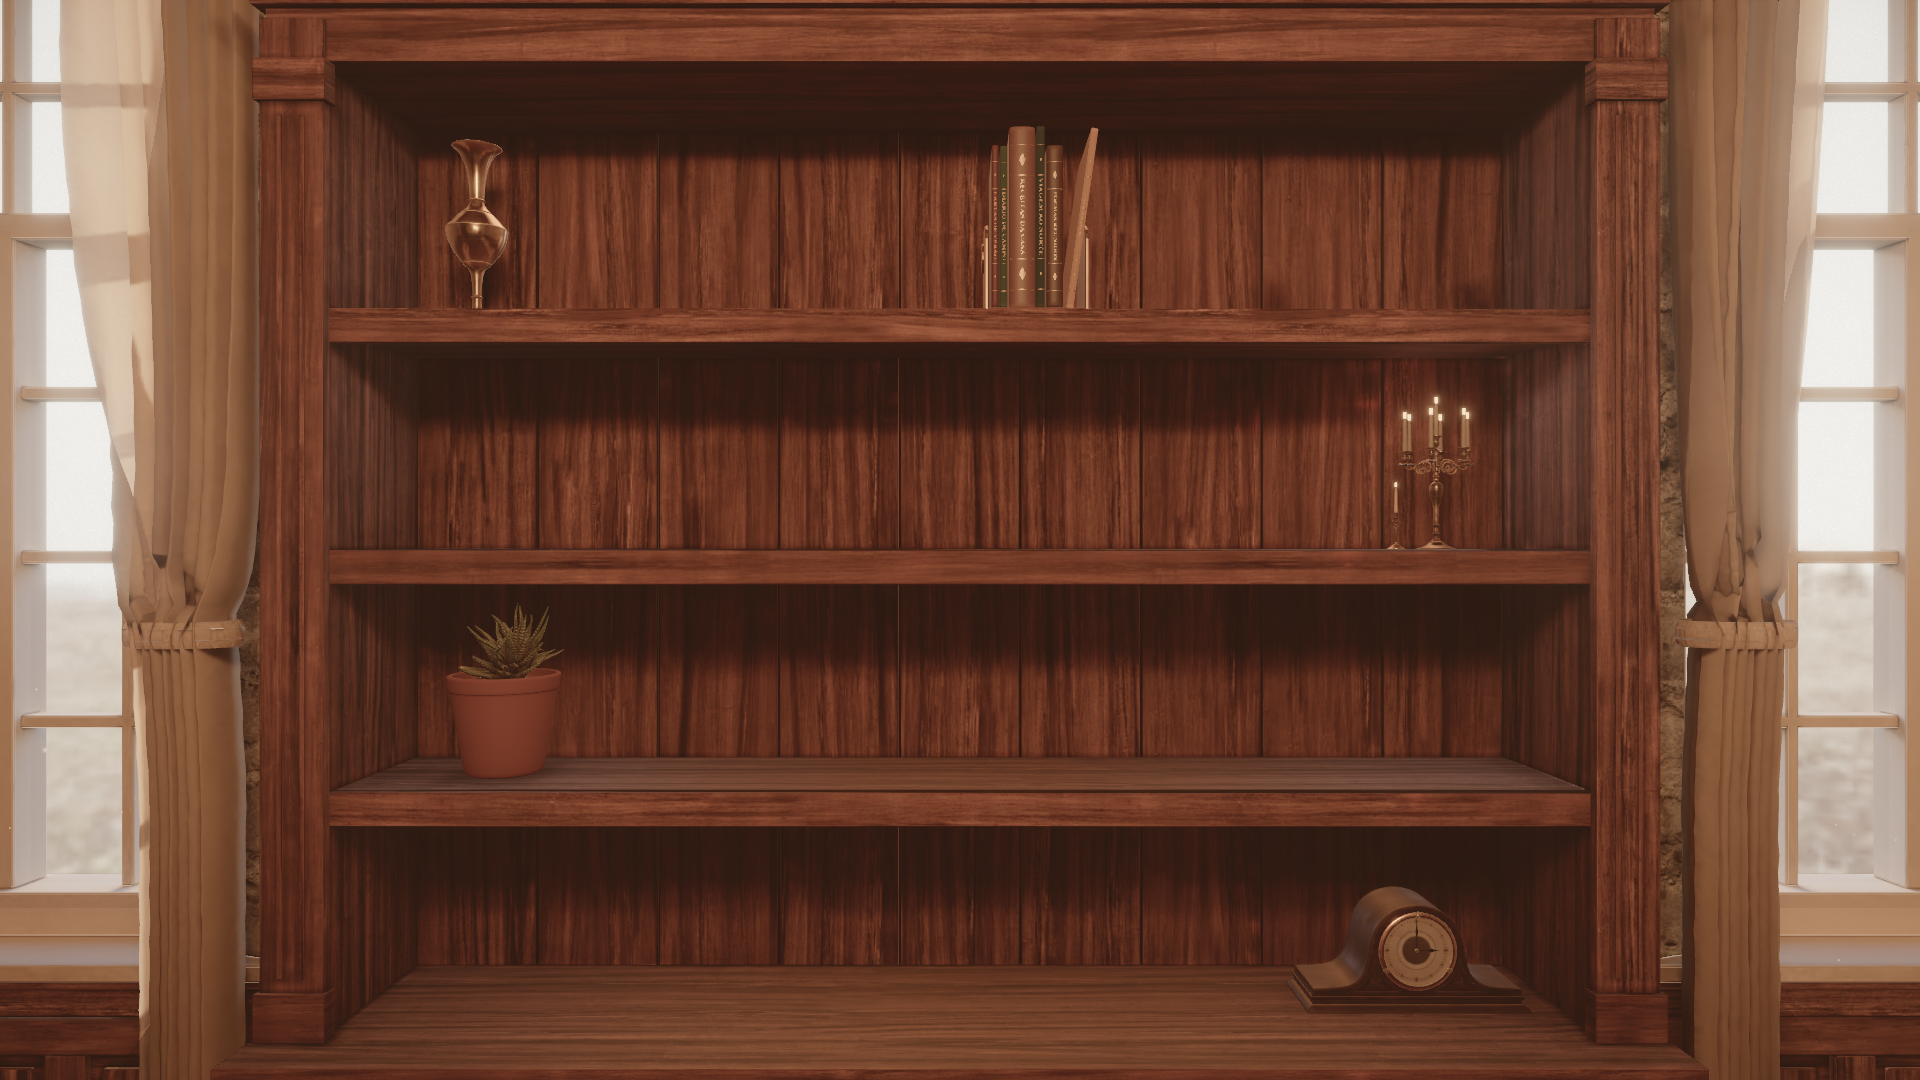
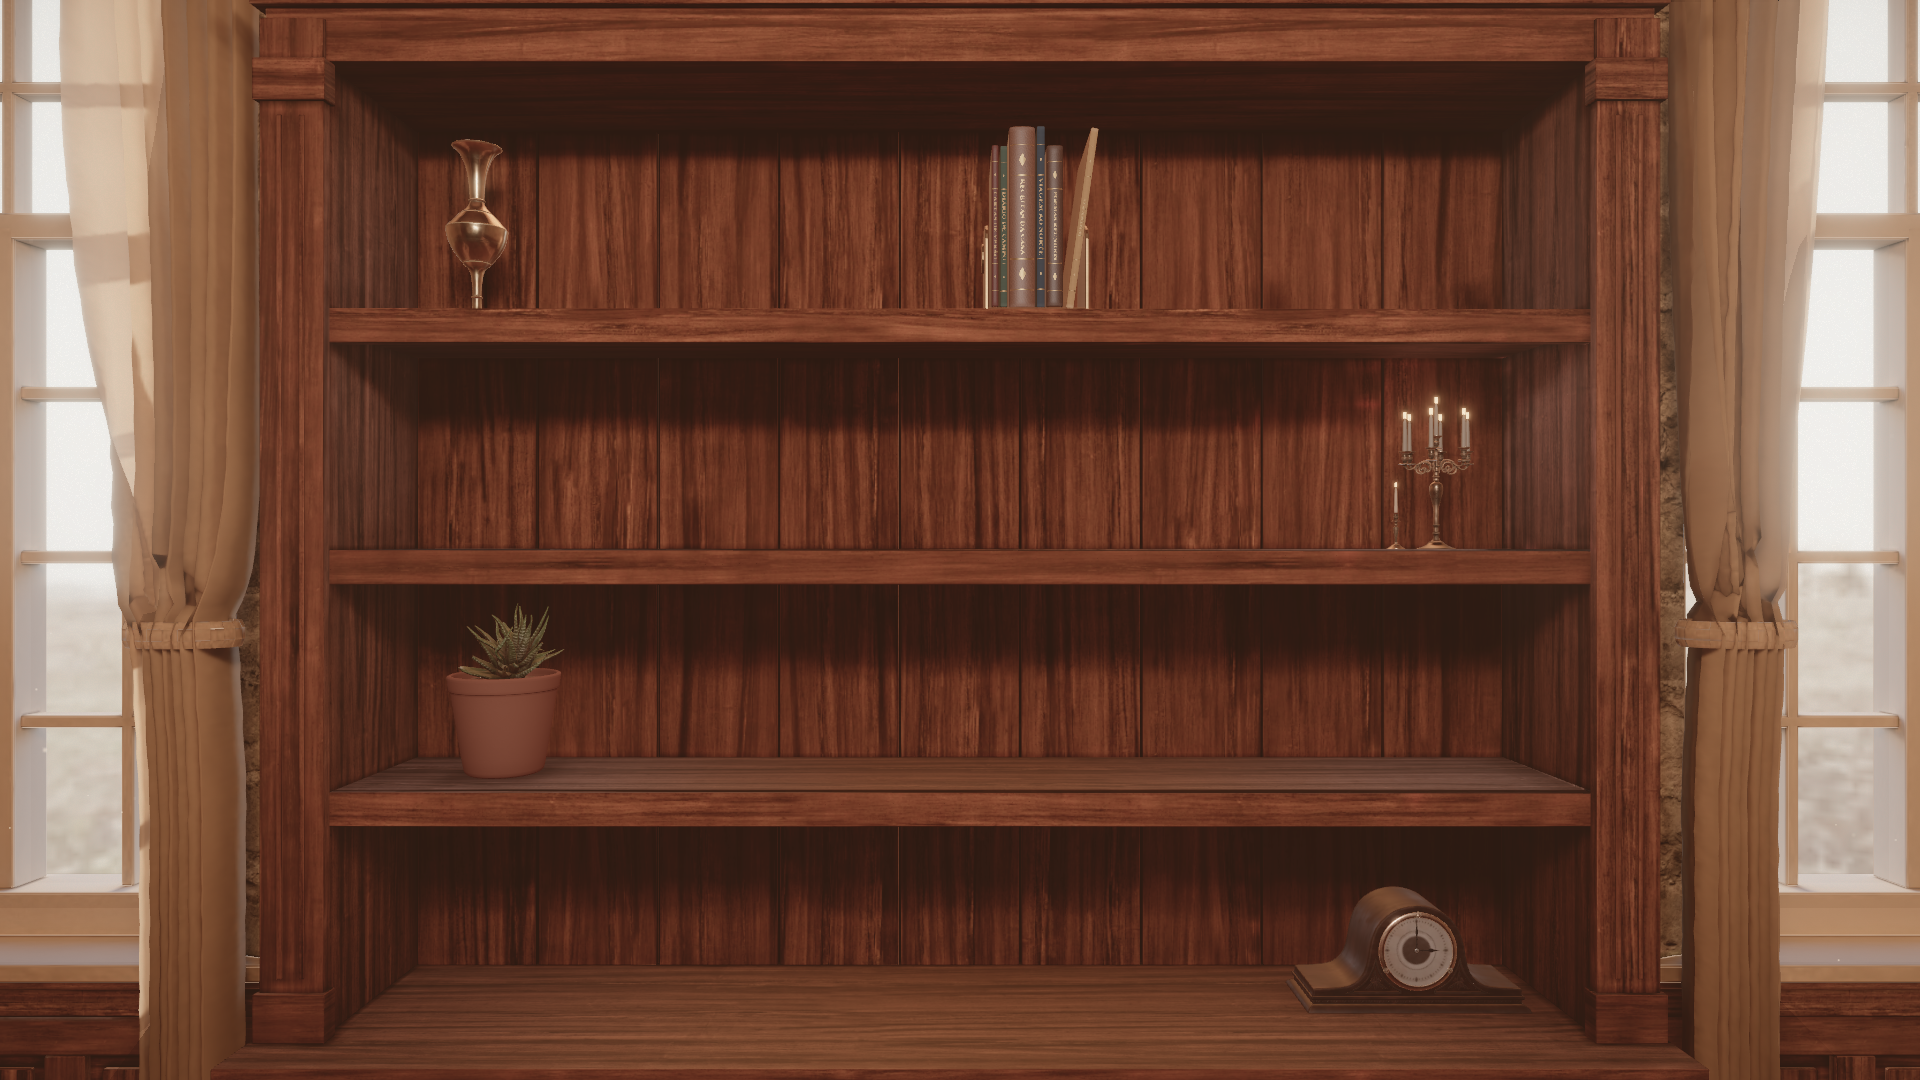
fase 6: cor fiel (luz dos livros menos saturada, prévia medida), prévia com lombada, sumário sem corte, botão × da foto

Changed region(s): [[0.5, 0.1222, 0.5625, 0.3056], [0.7188, 0.825, 0.7812, 0.9167], [0.7188, 0.3972, 0.75, 0.4278]]

diff --git a/src/ui/BookForm.tsx b/src/ui/BookForm.tsx
@@ -12,10 +12,15 @@ import { isPdf, useCreator } from './creator'
 import './ui.css'
 
 const COLORS = Object.keys(SPINE_COLORS) as SpineColor[]
-const PREVIEW_YAW = (32 * Math.PI) / 180
+const PREVIEW_YAW = (40 * Math.PI) / 180
 const PREVIEW_PITCH = (8 * Math.PI) / 180
-/** the room's sun (config/room.json, 3200 K): the colour picked here is the colour on the shelf */
-const WARM = '#FFBB78'
+/**
+ * Preview light: the room shows its books through a white-balance grade (scene/Grade.tsx) that this small
+ * canvas does not have, so it gets a near-neutral key in front of the cover and less of the (warm) room env
+ * map. Matched by measurement: petrol-blue cloth reads (73, 81, 89) here and (72, 73, 77) in the hand.
+ */
+const PREVIEW_KEY = '#FFF1E2'
+const PREVIEW_ENV = 0.6
 /** thickness of the preview before the PDF is composed */
 const DRAFT_PAGES = 120
 
@@ -180,10 +185,10 @@ function BookFormOpen() {
     <div className="ui-overlay" onDragOver={(e) => e.preventDefault()} onDrop={(e) => (e.preventDefault(), pickPdf([...e.dataTransfer.files].find(isPdf)))}>
       <form className="ui-card bf" role="dialog" aria-modal="true" aria-labelledby={`${ids}-h`} onSubmit={submit}>
         <div className="bf-preview" aria-hidden="true">
-          <Canvas dpr={[1, 2]} camera={{ fov: 30, position: [0.62, 0.05, 0] }} gl={{ antialias: true, toneMapping: AgXToneMapping, toneMappingExposure: 1.1 }}>
+          <Canvas dpr={[1, 2]} camera={{ fov: 22, position: [0.8, 0.1, 0] }} gl={{ antialias: true, toneMapping: AgXToneMapping, toneMappingExposure: 1.1 }}>
             <Suspense fallback={null}>
-              <RoomEnvironment background={false} intensity={1} />
-              <directionalLight position={[0.8, 1, 0.6]} intensity={2.2} color={WARM} />
+              <RoomEnvironment background={false} intensity={PREVIEW_ENV} />
+              <directionalLight position={[1, 0.9, -0.7]} intensity={3} color={PREVIEW_KEY} />
               <PreviewBook book={preview} />
             </Suspense>
           </Canvas>
@@ -196,17 +201,12 @@ function BookFormOpen() {
             {mode === 'edit' ? (editing?.title ?? d.title) : 'Um livro para a estante'}
           </h2>
 
-          <label className="bf-drop" data-filled={d.pdf ? '' : undefined}>
+          <span className="ui-label" id={`${ids}-pdf`}>
+            PDF do conteúdo <Req />
+          </span>
+          <label className="bf-drop" data-filled={d.pdf ? '' : undefined} aria-labelledby={`${ids}-pdf`}>
             <input type="file" accept="application/pdf,.pdf" onChange={(e) => pickPdf(e.target.files?.[0])} />
-            <span className="bf-drop-main">
-              {d.pdf ? (
-                d.pdfName
-              ) : (
-                <>
-                  Escolha ou arraste o PDF do conteúdo <Req />
-                </>
-              )}
-            </span>
+            <span className="bf-drop-main">{d.pdf ? d.pdfName : 'Escolha ou arraste o arquivo'}</span>
             <span className="bf-drop-sub">{d.pdf ? 'trocar arquivo' : 'o texto e as imagens viram as páginas do livro'}</span>
           </label>
           {loading && (
@@ -284,7 +284,7 @@ function BookFormOpen() {
             </fieldset>
           </div>
 
-          <div className="ui-field">
+          <div className="ui-field bf-photo-field">
             <span>Foto da capa</span>
             <label className="bf-drop bf-drop-photo" data-filled={d.coverPhoto ? '' : undefined}>
               <input type="file" accept="image/*" onChange={(e) => e.target.files?.[0] && set({ coverPhoto: e.target.files[0] })} />
@@ -295,8 +295,8 @@ function BookFormOpen() {
               </span>
             </label>
             {d.coverPhoto && (
-              <button type="button" className="ui-link" onClick={() => set({ coverPhoto: null })}>
-                tirar a foto
+              <button type="button" className="bf-clear" aria-label="Tirar a foto" title="Tirar a foto" onClick={() => set({ coverPhoto: null })}>
+                ×
               </button>
             )}
           </div>
@@ -336,14 +336,16 @@ function PreviewBook({ book }: { book: Parameters<typeof Book>[0]['book'] }) {
   const g = useRef<Group>(null)
   const d = bookDimensions(book.pageCount, book.trim)
   useFrame(({ clock, camera, size }) => {
-    // three-quarter view: spine and cover together, swaying a little
-    if (g.current) g.current.rotation.y = -PREVIEW_YAW + Math.sin(clock.elapsedTime * 0.45) * 0.1
-    // the book fills ~65% of the column's height, or its width when the column is short and wide (phones)
+    // three-quarter view with the spine toward the camera (a thin book's spine only shows from that side)
+    if (g.current) g.current.rotation.y = PREVIEW_YAW + Math.sin(clock.elapsedTime * 0.45) * 0.08
+    // the book fills ~65% of the column's height, or ~90% of its width when the column is short and wide
     const cam = camera as PerspectiveCamera
     const half = Math.tan((cam.fov * Math.PI) / 360)
-    const dist = Math.max(d.coverHeight / (2 * half * 0.65), (d.coverWidth * 0.62) / (half * (size.width / size.height)))
+    const projected = d.coverWidth * Math.cos(PREVIEW_YAW) + d.totalThickness * Math.sin(PREVIEW_YAW)
+    const dist = Math.max(d.coverHeight / (2 * half * 0.65), projected / (2 * half * (size.width / size.height) * 0.9))
     cam.position.set(dist * Math.cos(PREVIEW_PITCH), dist * Math.sin(PREVIEW_PITCH), 0)
-    cam.lookAt(0, 0, 0)
+    // aim a little low: the book sits above the middle, the page count just under it
+    cam.lookAt(0, -dist * half * 0.12, 0)
   })
   return (
     <group ref={g}>

diff --git a/src/scene/DynamicLights.tsx b/src/scene/DynamicLights.tsx
@@ -1,8 +1,9 @@
 import { useThree } from '@react-three/fiber'
 import { useEffect, useLayoutEffect, useRef } from 'react'
-import { Color, type DirectionalLight } from 'three'
+import type { DirectionalLight } from 'three'
 import { room, sunTravelDirection } from '../config/room'
 import { useQuality } from '../state/quality'
+import { CHANDELIER_TO_WHITE, objectLight, SUN_TO_WHITE } from './lightColor'
 import { setShadowInvalidator } from './shadows'
 
 /**
@@ -67,7 +68,7 @@ export function DynamicLights() {
       <directionalLight
         ref={sun}
         position={sunPos}
-        color={new Color(room.lighting.sun.colorHex)}
+        color={objectLight(room.lighting.sun.colorHex, SUN_TO_WHITE)}
         intensity={14}
         castShadow={quality === 'high'}
         shadow-mapSize={[1024, 1024]}
@@ -76,7 +77,7 @@ export function DynamicLights() {
       />
       <pointLight
         position={[ch.anchor[0], ch.bottomY + 0.25, ch.anchor[2]]}
-        color={new Color(room.lighting.chandelier.colorHex)}
+        color={objectLight(room.lighting.chandelier.colorHex, CHANDELIER_TO_WHITE)}
         intensity={12}
         decay={2}
         distance={0}

diff --git a/src/ui/ui.css b/src/ui/ui.css
@@ -258,7 +258,8 @@
   position: absolute;
   left: 0;
   right: 0;
-  bottom: 14px;
+  /* just under the book (it fills ~65% of the column, a little above the middle) */
+  bottom: 14%;
   margin: 0;
   text-align: center;
   font-size: var(--lb-label);
@@ -322,6 +323,45 @@
   text-transform: none;
   letter-spacing: 0;
   color: var(--lb-ink-soft);
+}
+
+.ui-label {
+  display: block;
+  margin: 12px 0 5px;
+  font-size: var(--lb-label);
+  letter-spacing: var(--lb-label-tracking);
+  text-transform: uppercase;
+  color: var(--lb-ink-muted);
+}
+
+.bf-photo-field {
+  position: relative;
+}
+
+/* remove the photo: a round 44 px button inside the filled zone, top right */
+.bf-clear {
+  position: absolute;
+  right: 4px;
+  bottom: 4px;
+  width: var(--lb-touch);
+  height: var(--lb-touch);
+  border-radius: 50%;
+  border: 0;
+  background: transparent;
+  color: var(--lb-ink-soft);
+  font: 22px var(--lb-serif);
+  line-height: 1;
+  cursor: pointer;
+}
+
+.bf-clear:hover {
+  background: var(--lb-hover);
+  color: var(--lb-ink);
+}
+
+.bf-clear:focus-visible {
+  outline: 2px solid var(--lb-gold-light);
+  outline-offset: -2px;
 }
 
 .ui-req {

diff --git a/src/scene/lightColor.ts b/src/scene/lightColor.ts
@@ -1,0 +1,15 @@
+import { Color } from 'three'
+
+/**
+ * Colour of a realtime light for the books and the shelf objects. With the Cycles colours as they are
+ * (2400 K chandelier = #FF9E40, almost no blue in linear) a petrol-blue cover turned olive, and the colour
+ * chosen in the book form was not the colour on the shelf. These lights take the same hue a bit toward
+ * white; the room's warmth comes from the bake and the env map, untouched.
+ */
+export function objectLight(hex: string, towardWhite: number) {
+  return new Color(hex).lerp(new Color('#ffffff'), towardWhite)
+}
+
+/** The sun and chandelier mixes used by DynamicLights (and the book form's preview). */
+export const SUN_TO_WHITE = 0.3
+export const CHANDELIER_TO_WHITE = 0.4

diff --git a/src/book/selection.css b/src/book/selection.css
@@ -333,3 +333,26 @@
   border-color: var(--lb-danger);
   color: var(--lb-danger);
 }
+
+/* with a mouse the rows can be denser (touch keeps 44 px): a long book's chapters fit without scrolling */
+@media (pointer: fine) {
+  .sel-toc-item {
+    min-height: 36px;
+    padding: 8px 8px 6px;
+  }
+}
+
+/* the list scrolls inside the panel; when it does, it fades out at the foot instead of cutting a row */
+.sel-toc {
+  display: flex;
+  flex-direction: column;
+  overflow: hidden !important;
+}
+
+.sel-toc ol {
+  flex: 1;
+  min-height: 0;
+  overflow-y: auto;
+  padding-bottom: 18px;
+  mask-image: linear-gradient(to bottom, #000 calc(100% - 26px), transparent);
+}

diff --git a/docs/decisoes.md b/docs/decisoes.md
@@ -321,3 +321,10 @@ Formato de cada entrada:
 - Alternativas: manter exemplos sempre na estante junto dos livros do usuário (mistura conteúdo de teste com o real); criar livro numa escrivaninha 3D da sala (mais bonito, muito mais trabalho — fica como evolução).
 - Como reverter: `shelfBooksOf` em `library.ts` (regra dos exemplos); `LibraryUI` em `SceneRoot.tsx`.
 - Precisa do usuário? sim: confirmar se os exemplos devem sumir quando ele cria o primeiro livro.
+
+## 2026-10-16 — Luz dos livros um pouco menos quente que a da sala
+- Contexto: `art-reviewer` (interface, rodada 2) — o azul-petróleo escolhido no formulário virava verde-oliva na estante. O lustre em tempo real (#FF9E40, 2400 K) quase não tem azul em linear.
+- Escolha: só as luzes em tempo real (que iluminam livros e objetos das prateleiras) usam a cor da `config/room.json` levada em parte ao branco (sol 30%, lustre 40%, `src/scene/lightColor.ts`). A config, o bake e o env map continuam iguais; o calor da sala vem deles.
+- Alternativa: mudar a cor das amostras para "como fica na sala" (pior: a amostra mentiria fora da sala).
+- Como reverter: `SUN_TO_WHITE`/`CHANDELIER_TO_WHITE` = 0.
+- Precisa do usuário? não (aprovação visual segue com o usuário).

diff --git a/docs/look-dev/iteracoes.md b/docs/look-dev/iteracoes.md
@@ -137,3 +137,7 @@ Cada entrada: data/hora, o que mudou, notas por critério (art-reviewer), diverg
 
 ### I2
 - Prévia a 32°/8° com a luz quente do sol da sala; primário em ouro; rótulos 12 px com 0,14 em; título 26 px em token; foto como zona com miniatura; obrigatórios marcados; overlay mais leve; alvos ≥ 44 px; nome da cor visível; seta sem destino escondida; fade de navegação no mesmo escuro da abertura.
+
+### I3
+- **art-reviewer (I2):** 4 · 4 · 4 · 3 — "iterar": azul-petróleo virava verde-oliva (na sala e na prévia), prévia ainda de frente e pequena, sumário cortando item, "tirar a foto" solto, PDF sem rótulo.
+- Luzes em tempo real dos livros/objetos levadas 30% (sol) e 40% (lustre) ao branco — o lustre a 2400 K tirava quase todo o azul; bake e env map intocados. Prévia com luz-chave quase neutra na frente da capa (a sala tem balanço de branco, a prévia não): azul-petróleo mede (73, 81, 89) na prévia e (72, 73, 77) na mão. Prévia a 40° com a lombada para a câmera, FOV 22, ~65% da altura. Sumário com linhas de 36 px no mouse e fade no pé. Botão × para tirar a foto; rótulo do PDF.
